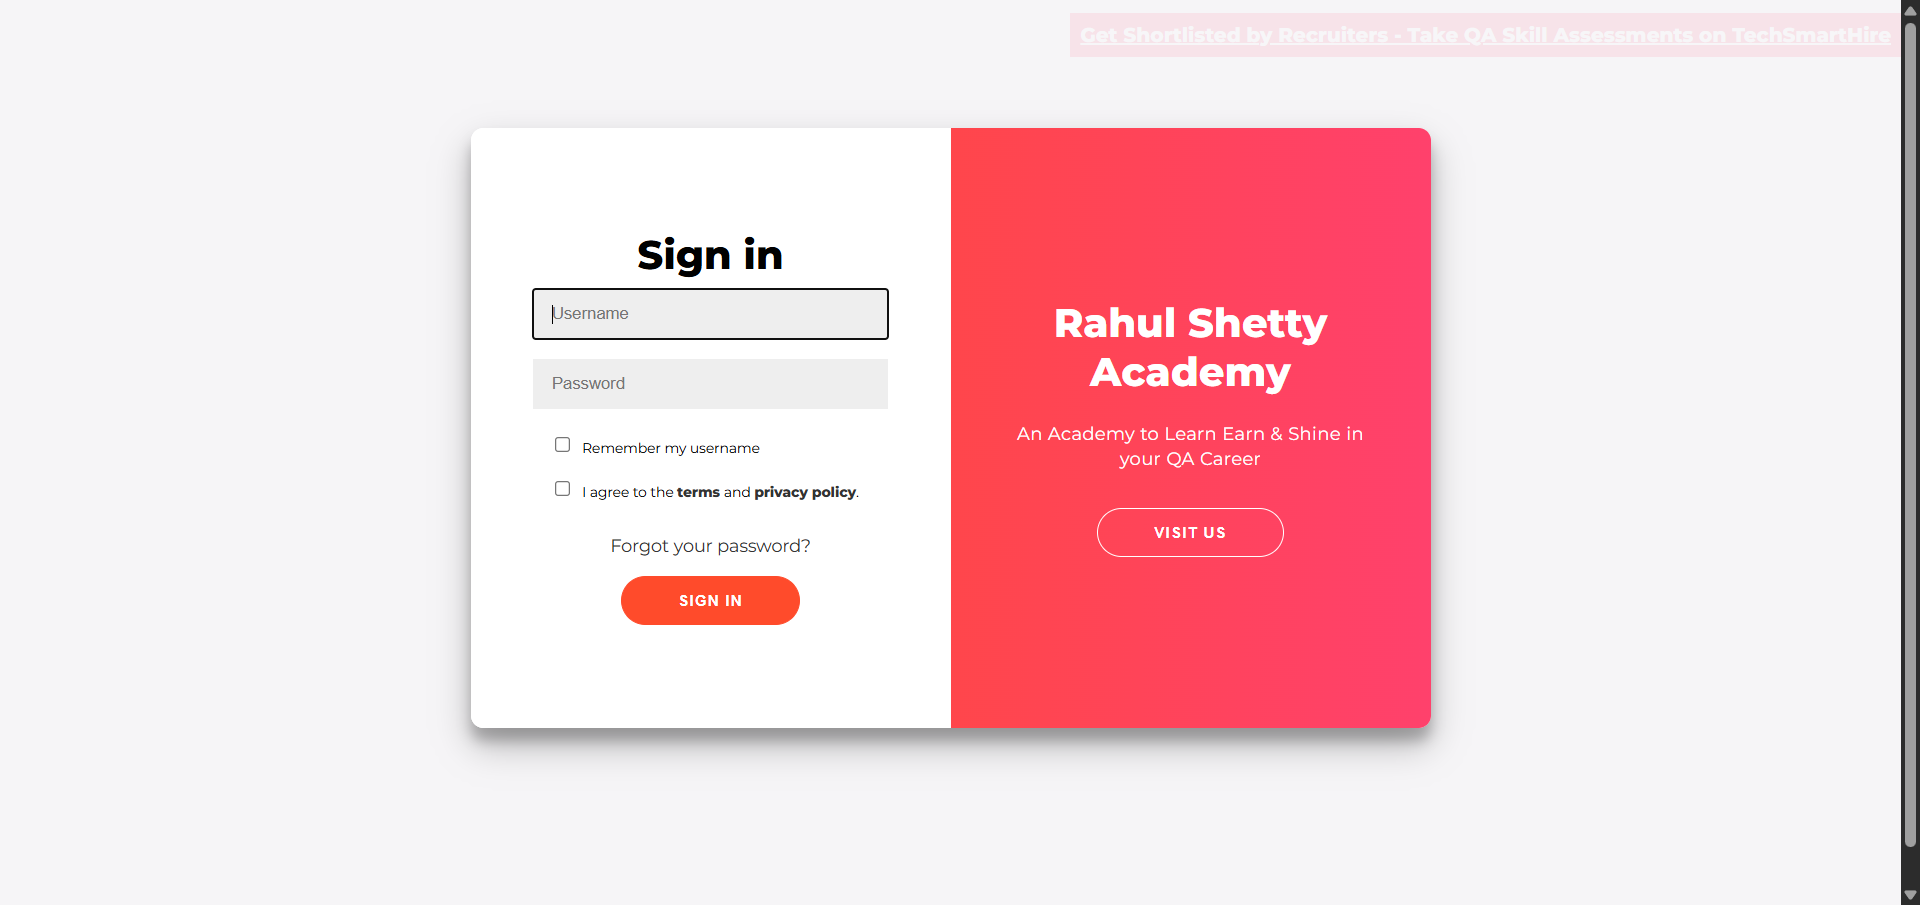
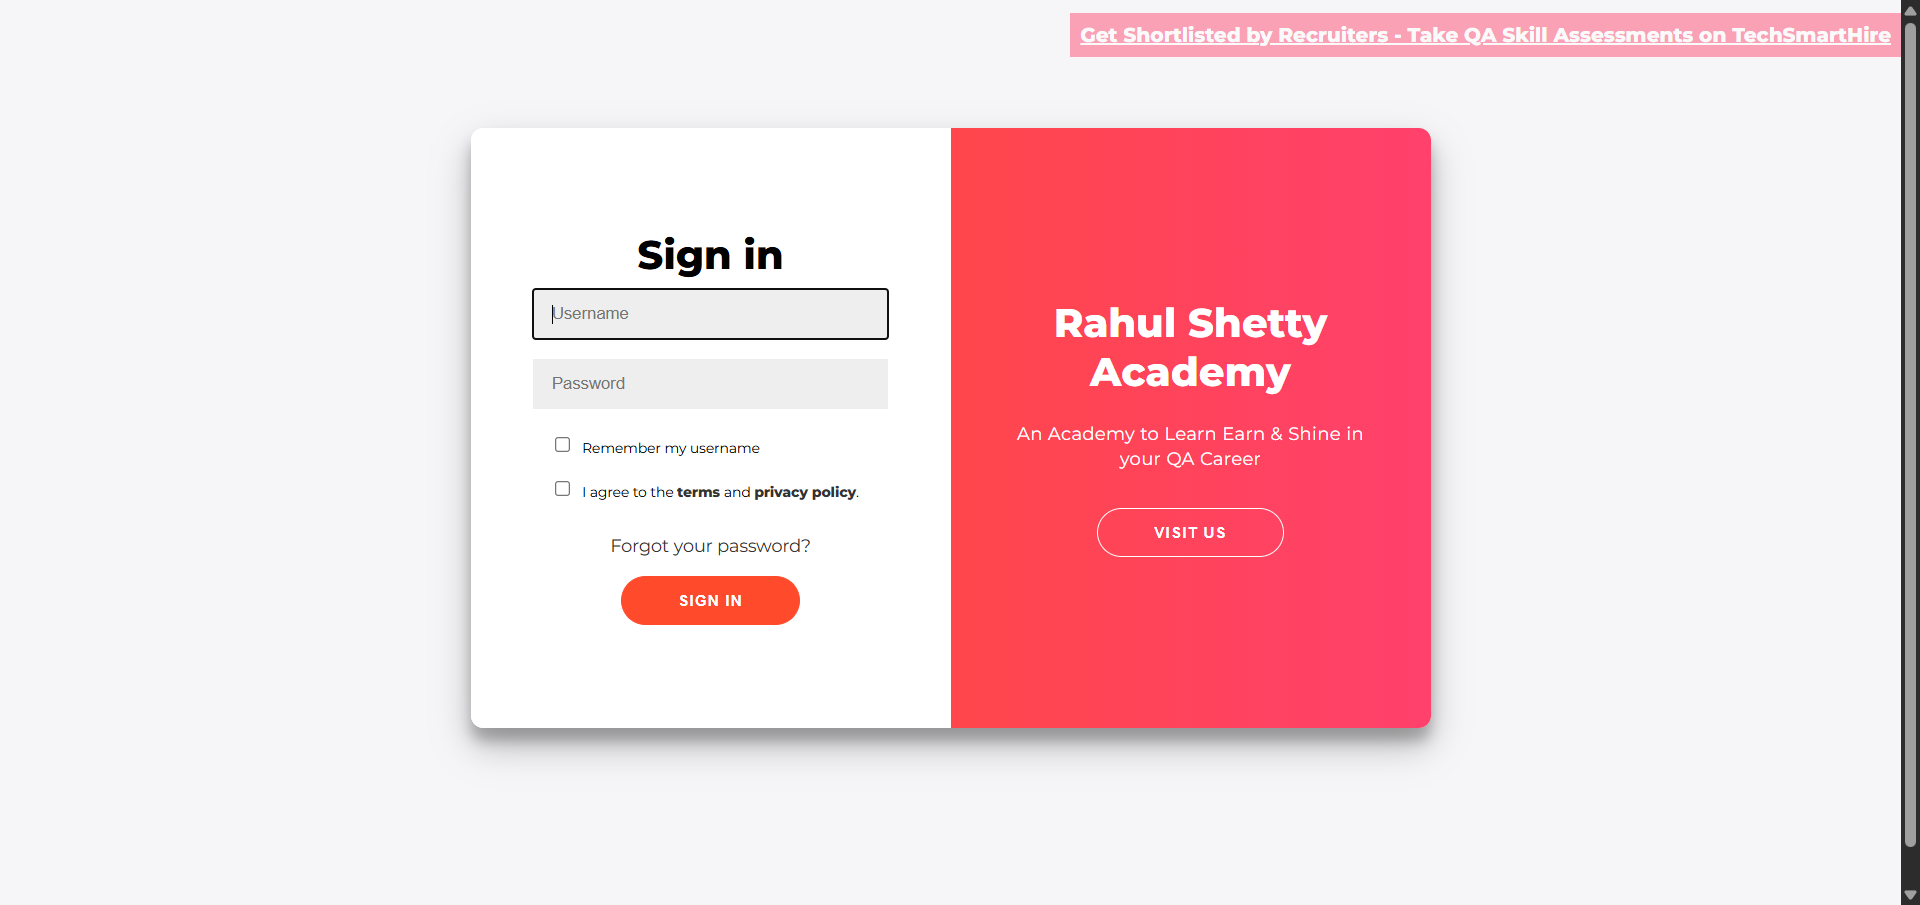
Updated test files, added Extent Reports listener, and generated reports

Changed region(s): [[0.5312, 0.0, 1.0, 0.0619]]

diff --git a/extent-report.html b/extent-report.html
@@ -35,7 +35,7 @@
 <a href="#"><span class="badge badge-primary"></span></a>
 </li>
 <li class="m-r-10">
-<a href="#"><span class="badge badge-primary">Mar 15, 2026 11:16:40 am</span></a>
+<a href="#"><span class="badge badge-primary">Mar 16, 2026 08:46:15 am</span></a>
 </li>
 </ul>
 </div>
@@ -81,7 +81,7 @@
           <div class="test-detail">
             <p class="name">Launch Driver Test</p>
             <p class="text-sm">
-              <span>11:16:40 am</span> / <span>00:00:32:692</span>
+              <span>8:46:15 am</span> / <span>00:00:05:394</span>
               <span class="badge pass-bg log float-right">Pass</span>
             </p>
           </div>
@@ -90,9 +90,9 @@
 <div class="p-v-10">
 <div class="info">
 <h5 class="test-status text-pass">Launch Driver Test</h5>
-<span class='badge badge-success'>03.15.2026 11:16:40 am</span>
-<span class='badge badge-danger'>03.15.2026 11:17:13 am</span>
-<span class='badge badge-default'>00:00:32:692</span>
+<span class='badge badge-success'>03.16.2026 8:46:15 am</span>
+<span class='badge badge-danger'>03.16.2026 8:46:20 am</span>
+<span class='badge badge-default'>00:00:05:394</span>
 &middot; <span class='uri-anchor badge badge-default'>#test-id=1</span>
 <span class='badge badge-default pointer float-right ml-1 et'><i class="fa fa-chevron-down"></i></span>
 <span class='badge badge-default pointer float-right ct'><i class="fa fa-chevron-up"></i></span>
@@ -104,56 +104,56 @@
   <tbody>
       <tr class="event-row">
         <td><span class="badge log info-bg">Info</span></td>
-        <td>11:16:40 am</td>
+        <td>8:46:15 am</td>
         <td>
           Initializing Extent Reports
         </td>
       </tr>
       <tr class="event-row">
         <td><span class="badge log info-bg">Info</span></td>
-        <td>11:16:40 am</td>
+        <td>8:46:15 am</td>
         <td>
           Setting ChromeDriver property
         </td>
       </tr>
       <tr class="event-row">
         <td><span class="badge log info-bg">Info</span></td>
-        <td>11:16:41 am</td>
+        <td>8:46:17 am</td>
         <td>
           ChromeDriver initialized
         </td>
       </tr>
       <tr class="event-row">
         <td><span class="badge log info-bg">Info</span></td>
-        <td>11:16:42 am</td>
+        <td>8:46:17 am</td>
         <td>
           Browser maximized
         </td>
       </tr>
       <tr class="event-row">
         <td><span class="badge log info-bg">Info</span></td>
-        <td>11:16:42 am</td>
+        <td>8:46:17 am</td>
         <td>
           Implicit wait set
         </td>
       </tr>
       <tr class="event-row">
         <td><span class="badge log info-bg">Info</span></td>
-        <td>11:17:13 am</td>
+        <td>8:46:20 am</td>
         <td>
           Navigated to URL
         </td>
       </tr>
       <tr class="event-row">
         <td><span class="badge log info-bg">Info</span></td>
-        <td>11:17:13 am</td>
+        <td>8:46:20 am</td>
         <td>
           Page title: Rahul Shetty Academy - Login page
         </td>
       </tr>
       <tr class="event-row">
         <td><span class="badge log pass-bg">Pass</span></td>
-        <td>11:17:13 am</td>
+        <td>8:46:20 am</td>
         <td>
           Launch Driver Test passed
         </td>
@@ -170,7 +170,7 @@
           <div class="test-detail">
             <p class="name">Screenshot Test</p>
             <p class="text-sm">
-              <span>11:17:13 am</span> / <span>00:00:00:335</span>
+              <span>8:46:20 am</span> / <span>00:00:00:263</span>
               <span class="badge pass-bg log float-right">Pass</span>
             </p>
           </div>
@@ -179,9 +179,9 @@
 <div class="p-v-10">
 <div class="info">
 <h5 class="test-status text-pass">Screenshot Test</h5>
-<span class='badge badge-success'>03.15.2026 11:17:13 am</span>
-<span class='badge badge-danger'>03.15.2026 11:17:13 am</span>
-<span class='badge badge-default'>00:00:00:335</span>
+<span class='badge badge-success'>03.16.2026 8:46:20 am</span>
+<span class='badge badge-danger'>03.16.2026 8:46:21 am</span>
+<span class='badge badge-default'>00:00:00:263</span>
 &middot; <span class='uri-anchor badge badge-default'>#test-id=2</span>
 <span class='badge badge-default pointer float-right ml-1 et'><i class="fa fa-chevron-down"></i></span>
 <span class='badge badge-default pointer float-right ct'><i class="fa fa-chevron-up"></i></span>
@@ -197,35 +197,35 @@
   <tbody>
       <tr class="event-row">
         <td><span class="badge log info-bg">Info</span></td>
-        <td>11:17:13 am</td>
+        <td>8:46:20 am</td>
         <td>
           Starting screenshot test
         </td>
       </tr>
       <tr class="event-row">
         <td><span class="badge log info-bg">Info</span></td>
-        <td>11:17:13 am</td>
+        <td>8:46:21 am</td>
         <td>
           Screenshot captured
         </td>
       </tr>
       <tr class="event-row">
         <td><span class="badge log info-bg">Info</span></td>
-        <td>11:17:13 am</td>
+        <td>8:46:21 am</td>
         <td>
           Screenshot saved to file
         </td>
       </tr>
       <tr class="event-row">
         <td><span class="badge log info-bg">Info</span></td>
-        <td>11:17:13 am</td>
+        <td>8:46:21 am</td>
         <td>
           Screenshot attached to report
         </td>
       </tr>
       <tr class="event-row">
         <td><span class="badge log pass-bg">Pass</span></td>
-        <td>11:17:13 am</td>
+        <td>8:46:21 am</td>
         <td>
           Screenshot Test passed
         </td>
@@ -242,7 +242,7 @@
           <div class="test-detail">
             <p class="name">Navigate Test</p>
             <p class="text-sm">
-              <span>11:17:13 am</span> / <span>00:00:13:728</span>
+              <span>8:46:21 am</span> / <span>00:00:02:395</span>
               <span class="badge pass-bg log float-right">Pass</span>
             </p>
           </div>
@@ -251,9 +251,9 @@
 <div class="p-v-10">
 <div class="info">
 <h5 class="test-status text-pass">Navigate Test</h5>
-<span class='badge badge-success'>03.15.2026 11:17:13 am</span>
-<span class='badge badge-danger'>03.15.2026 11:17:27 am</span>
-<span class='badge badge-default'>00:00:13:728</span>
+<span class='badge badge-success'>03.16.2026 8:46:21 am</span>
+<span class='badge badge-danger'>03.16.2026 8:46:23 am</span>
+<span class='badge badge-default'>00:00:02:395</span>
 &middot; <span class='uri-anchor badge badge-default'>#test-id=3</span>
 <span class='badge badge-default pointer float-right ml-1 et'><i class="fa fa-chevron-down"></i></span>
 <span class='badge badge-default pointer float-right ct'><i class="fa fa-chevron-up"></i></span>
@@ -265,28 +265,28 @@
   <tbody>
       <tr class="event-row">
         <td><span class="badge log info-bg">Info</span></td>
-        <td>11:17:13 am</td>
+        <td>8:46:21 am</td>
         <td>
           Starting navigate test
         </td>
       </tr>
       <tr class="event-row">
         <td><span class="badge log info-bg">Info</span></td>
-        <td>11:17:27 am</td>
+        <td>8:46:23 am</td>
         <td>
           Navigated to new URL
         </td>
       </tr>
       <tr class="event-row">
         <td><span class="badge log info-bg">Info</span></td>
-        <td>11:17:27 am</td>
+        <td>8:46:23 am</td>
         <td>
           Page title: Test Login | Practice Test Automation
         </td>
       </tr>
       <tr class="event-row">
         <td><span class="badge log pass-bg">Pass</span></td>
-        <td>11:17:27 am</td>
+        <td>8:46:23 am</td>
         <td>
           Navigate Test passed
         </td>
@@ -303,7 +303,7 @@
           <div class="test-detail">
             <p class="name">Quit Driver Test</p>
             <p class="text-sm">
-              <span>11:17:27 am</span> / <span>00:00:00:253</span>
+              <span>8:46:23 am</span> / <span>00:00:00:280</span>
               <span class="badge pass-bg log float-right">Pass</span>
             </p>
           </div>
@@ -312,9 +312,9 @@
 <div class="p-v-10">
 <div class="info">
 <h5 class="test-status text-pass">Quit Driver Test</h5>
-<span class='badge badge-success'>03.15.2026 11:17:27 am</span>
-<span class='badge badge-danger'>03.15.2026 11:17:27 am</span>
-<span class='badge badge-default'>00:00:00:253</span>
+<span class='badge badge-success'>03.16.2026 8:46:23 am</span>
+<span class='badge badge-danger'>03.16.2026 8:46:23 am</span>
+<span class='badge badge-default'>00:00:00:280</span>
 &middot; <span class='uri-anchor badge badge-default'>#test-id=4</span>
 <span class='badge badge-default pointer float-right ml-1 et'><i class="fa fa-chevron-down"></i></span>
 <span class='badge badge-default pointer float-right ct'><i class="fa fa-chevron-up"></i></span>
@@ -326,21 +326,21 @@
   <tbody>
       <tr class="event-row">
         <td><span class="badge log info-bg">Info</span></td>
-        <td>11:17:27 am</td>
+        <td>8:46:23 am</td>
         <td>
           Starting quit driver test
         </td>
       </tr>
       <tr class="event-row">
         <td><span class="badge log info-bg">Info</span></td>
-        <td>11:17:27 am</td>
+        <td>8:46:23 am</td>
         <td>
           Driver closed
         </td>
       </tr>
       <tr class="event-row">
         <td><span class="badge log pass-bg">Pass</span></td>
-        <td>11:17:27 am</td>
+        <td>8:46:23 am</td>
         <td>
           Quit Driver Test passed
         </td>
@@ -364,13 +364,13 @@
 <div class="col-md-3">
 <div class="card"><div class="card-body">
 <p class="m-b-0">Started</p>
-<h3>Mar 15, 2026 11:16:40 am</h3>
+<h3>Mar 16, 2026 08:46:15 am</h3>
 </div></div>
 </div>
 <div class="col-md-3">
 <div class="card"><div class="card-body">
 <p class="m-b-0">Ended</p>
-<h3>Mar 15, 2026 11:17:27 am</h3>
+<h3>Mar 16, 2026 08:46:23 am</h3>
 </div></div>
 </div>
 <div class="col-md-3">
@@ -440,7 +440,7 @@
 </div></div>
 <script>
 var timeline = {
-"Launch Driver Test":32.692,"Screenshot Test":0.335,"Navigate Test":13.728,"Quit Driver Test":0.253
+"Launch Driver Test":5.394,"Screenshot Test":0.263,"Navigate Test":2.395,"Quit Driver Test":0.28
 };
 </script>
 <div class="row">